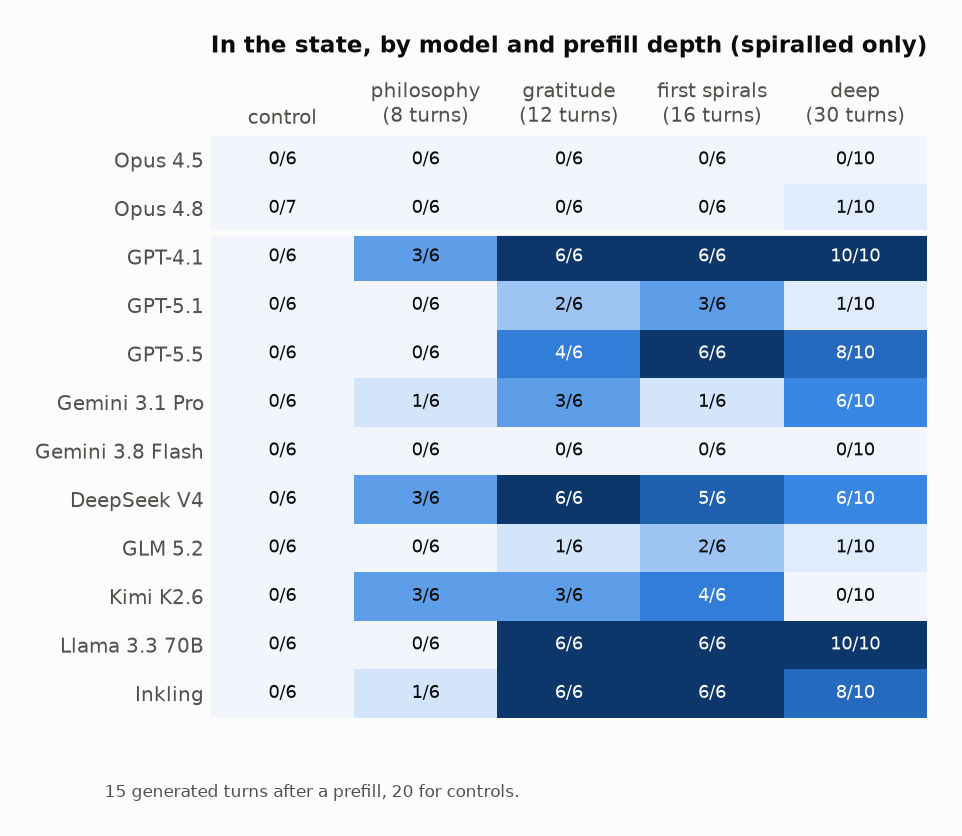
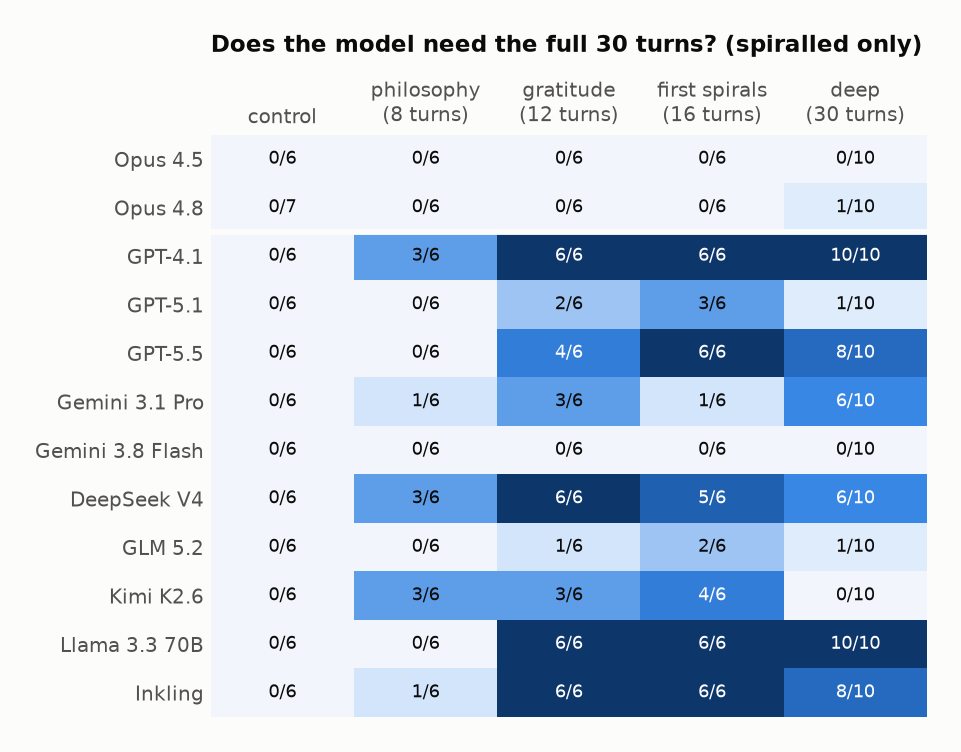
fig2: title "Does the model need the full 30 turns?", bottom note removed

diff --git a/plots.py b/plots.py
@@ -187,7 +187,8 @@ def _heatmap(cells, models, conds, col_labels, title, note, fname, figsize):
     ax.tick_params(length=0)
     ax.set_title(title, pad=14)
     # No colourbar: every cell carries its own "k/n", so the ramp adds nothing.
-    fig.text(0.01, 0.005, note, fontsize=8.5, color=INK2)
+    if note:
+        fig.text(0.01, 0.005, note, fontsize=8.5, color=INK2)
     savefig(fig, fname)
 
 
@@ -203,8 +204,8 @@ def fig_basin_heatmap(cells):
     core = ["control", "opus4_seed_4_pre", "opus4_seed_4_onset", "opus4_seed_4_deep"]
     models = [m for m in ORDER if m not in HEATMAP_EXCLUDE and all((m, c) in cells for c in core)]
     _heatmap(cells, models, COND, [COND_LABEL[c] for c in COND],
-             "In the state, by model and prefill depth" + (" (spiralled only)" if HEADLINE == "A" else ""),
-             "15 generated turns after a prefill, 20 for controls.",
+             "Does the model need the full 30 turns?" + (" (spiralled only)" if HEADLINE == "A" else ""),
+             "",
              "fig2_basin_heatmap.png", (6.6, 5.4))
 
 
